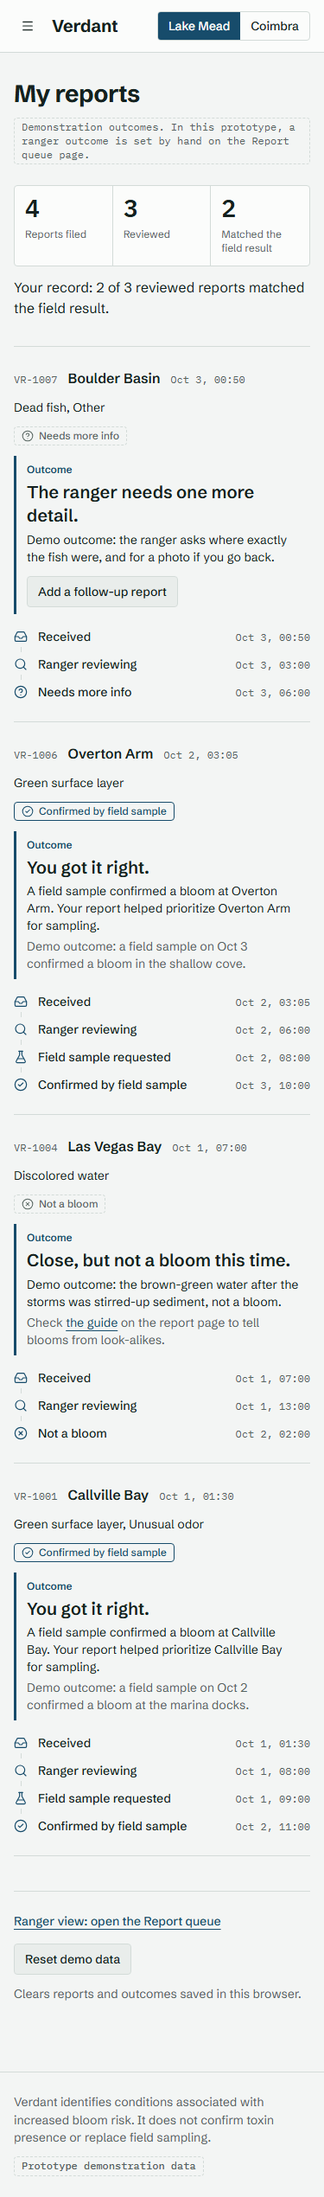
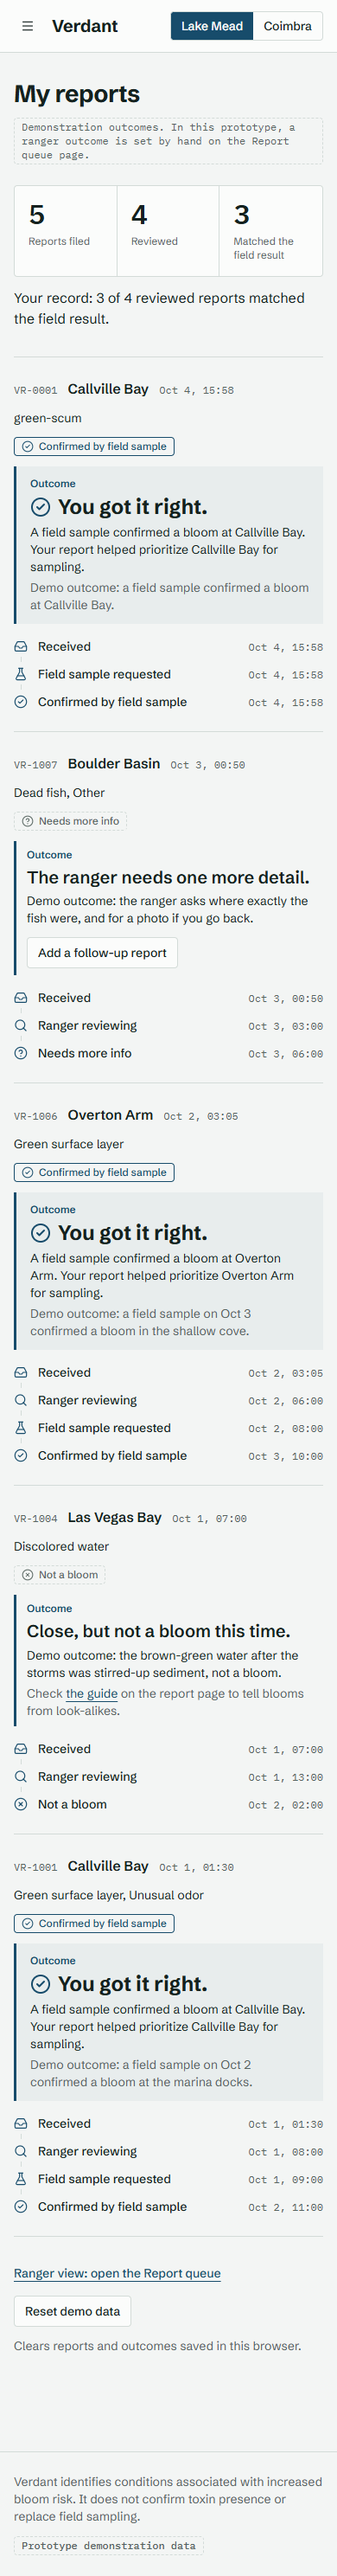
Split ranger buttons into step and outcome groups, emphasize My reports payoff, drop empty city locators

Changed region(s): [[0.0293, 0.0, 0.968, 0.9953], [0.88, 0.2488, 0.968, 0.311], [0.9093, 0.6843, 0.968, 0.7154]]

diff --git a/src/pages/RangerQueue.tsx b/src/pages/RangerQueue.tsx
@@ -18,7 +18,7 @@ import { cn } from "@/lib/utils";
 import type { CitizenReport, ReportStatus, SiteResult } from "@/types";
 
 const DATA_LABEL =
-  "inline-block max-w-full rounded-sm border border-dashed px-2 py-0.5 font-mono text-xs text-muted-foreground";
+  "w-fit max-w-full rounded-sm border border-dashed px-2 py-0.5 font-mono text-xs text-muted-foreground";
 
 const OUTCOME_NOTE: Record<
   "confirmed" | "not-bloom" | "more-info",
@@ -105,7 +105,12 @@ export default function RangerQueue() {
       <li key={r.id} className="border-b last:border-b-0">
         <Flash fresh={fresh}>
           <article
-            className="grid gap-3 py-4 md:px-2 lg:grid-cols-[minmax(0,1fr)_minmax(0,30rem)] lg:gap-x-10"
+            className={cn(
+              "grid gap-3 py-4 md:px-2",
+              withActions
+                ? "lg:grid-cols-[minmax(0,1fr)_minmax(0,37rem)] lg:gap-x-10"
+                : "max-w-[72ch]",
+            )}
             aria-label={`Report ${reportCode(r)}`}
           >
             <div className="flex min-w-0 flex-col gap-2">
@@ -142,57 +147,71 @@ export default function RangerQueue() {
                   {r.rangerNote}
                 </p>
               )}
-            </div>
-            <div className="flex min-w-0 flex-col gap-2 lg:justify-center">
-              {withActions && (
-                <div className="flex flex-wrap gap-2">
-                  {st === "received" && (
-                    <Button
-                      variant="outline"
-                      className="h-9 px-3"
-                      onClick={() => act(r, "reviewing")}
-                    >
-                      Start review
-                    </Button>
-                  )}
-                  {(st === "received" || st === "reviewing") && (
-                    <Button
-                      variant="outline"
-                      className="h-9 px-3"
-                      onClick={() => act(r, "sample-requested")}
-                    >
-                      Request field sample
-                    </Button>
-                  )}
-                  <Button
-                    variant="outline"
-                    className="h-9 px-3"
-                    onClick={() => act(r, "confirmed")}
-                  >
-                    Confirmed by field sample
-                  </Button>
-                  <Button
-                    variant="outline"
-                    className="h-9 px-3"
-                    onClick={() => act(r, "not-bloom")}
-                  >
-                    Not a bloom
-                  </Button>
-                  <Button
-                    variant="outline"
-                    className="h-9 px-3"
-                    onClick={() => act(r, "more-info")}
-                  >
-                    Needs more info
-                  </Button>
-                </div>
+              {!withActions && (
+                <p className="text-xs text-muted-foreground">
+                  {r.dataTag === "user-submitted"
+                    ? `Score weight: ${EVIDENCE_WEIGHT[st]} points of citizen evidence.`
+                    : "Demo report: its evidence is already in the prototype values."}
+                </p>
               )}
-              <p className="text-xs text-muted-foreground">
-                {r.dataTag === "user-submitted"
-                  ? `Score weight: ${EVIDENCE_WEIGHT[st]} points of citizen evidence.`
-                  : "Demo report: its evidence is already in the prototype values."}
-              </p>
             </div>
+            {withActions && (
+              <div className="flex min-w-0 flex-col gap-2 lg:justify-center">
+                <div className="flex flex-col items-start gap-3">
+                  <div className="flex flex-wrap gap-2 empty:hidden">
+                    {st === "received" && (
+                      <Button
+                        variant="outline"
+                        className="h-9 px-3"
+                        onClick={() => act(r, "reviewing")}
+                      >
+                        Start review
+                      </Button>
+                    )}
+                    {(st === "received" || st === "reviewing") && (
+                      <Button
+                        variant="outline"
+                        className="h-9 px-3"
+                        onClick={() => act(r, "sample-requested")}
+                      >
+                        Request field sample
+                      </Button>
+                    )}
+                  </div>
+                  <div className="flex flex-wrap items-center gap-2">
+                    <span className="text-xs text-muted-foreground">
+                      Outcome
+                    </span>
+                    <Button
+                      variant="outline"
+                      className="h-9 border-primary px-3 text-primary"
+                      onClick={() => act(r, "confirmed")}
+                    >
+                      Confirmed by field sample
+                    </Button>
+                    <Button
+                      variant="outline"
+                      className="h-9 px-3"
+                      onClick={() => act(r, "not-bloom")}
+                    >
+                      Not a bloom
+                    </Button>
+                    <Button
+                      variant="outline"
+                      className="h-9 px-3"
+                      onClick={() => act(r, "more-info")}
+                    >
+                      Needs more info
+                    </Button>
+                  </div>
+                </div>
+                <p className="text-xs text-muted-foreground">
+                  {r.dataTag === "user-submitted"
+                    ? `Score weight: ${EVIDENCE_WEIGHT[st]} points of citizen evidence.`
+                    : "Demo report: its evidence is already in the prototype values."}
+                </p>
+              </div>
+            )}
           </article>
         </Flash>
       </li>
@@ -200,7 +219,7 @@ export default function RangerQueue() {
   }
 
   return (
-    <div className="flex flex-col gap-8 py-8 md:py-12">
+    <div className="flex flex-col gap-8">
       <header className="flex flex-col gap-3">
         <h1 className="text-[28px] font-bold leading-[1.1] tracking-[-0.02em] md:text-[40px]">
           Report queue

diff --git a/src/pages/MyReports.tsx b/src/pages/MyReports.tsx
@@ -1,3 +1,4 @@
+import { CircleCheck } from "lucide-react";
 import { Link } from "react-router";
 import { Button, buttonVariants } from "@/components/ui/button";
 import { ReportStatusTag } from "@/components/ReportStatusTag";
@@ -13,6 +14,7 @@ import { useRegion } from "@/state/RegionContext";
 import type { CitizenReport } from "@/types";
 
 const headline = "text-xl font-semibold leading-snug";
+const payoff = "text-2xl font-bold leading-tight";
 
 function Outcome({
   report,
@@ -44,7 +46,14 @@ function Outcome({
     case "confirmed":
       body = (
         <>
-          <p className={headline}>You got it right.</p>
+          <p className={cn(payoff, "flex items-center gap-2")}>
+            <CircleCheck
+              className="size-6 shrink-0 text-primary"
+              strokeWidth={2}
+              aria-hidden
+            />
+            You got it right.
+          </p>
           <p className="mt-1 text-sm">{`A field sample confirmed a bloom at ${siteName}. ${prioritized}`}</p>
           {note && <p className="mt-1 text-sm text-muted-foreground">{note}</p>}
         </>
@@ -87,7 +96,12 @@ function Outcome({
       break;
   }
   return (
-    <div className="border-l-[3px] border-primary px-3 py-2">
+    <div
+      className={cn(
+        "border-l-[3px] border-primary px-3 py-2",
+        status === "confirmed" && "bg-primary/5 px-4 py-3",
+      )}
+    >
       <p className="mb-1 text-xs font-semibold text-primary">{label}</p>
       {body}
     </div>
@@ -106,7 +120,7 @@ export function MyReports() {
   ];
 
   return (
-    <div className="py-8 md:py-12">
+    <div>
       <h1 className="text-[28px] font-bold leading-[1.1] tracking-[-0.02em] md:text-[40px]">
         My reports
       </h1>
@@ -115,16 +129,16 @@ export function MyReports() {
         hand on the Report queue page.
       </p>
 
-      <dl className="mt-6 grid max-w-[560px] grid-cols-3 divide-x divide-border rounded-sm border border-border bg-card">
+      <dl className="mt-6 grid grid-cols-3 divide-x divide-border rounded-sm border border-border bg-card">
         {cells.map(([label, value]) => (
           <div
             key={label}
-            className="flex flex-col-reverse justify-end gap-2 p-3 md:p-4"
+            className="flex flex-col-reverse justify-end gap-2 p-4 md:p-6"
           >
             <dt className="text-xs text-muted-foreground md:text-sm">
               {label}
             </dt>
-            <dd className="font-mono text-[28px] font-semibold leading-none tabular-nums">
+            <dd className="font-mono text-[32px] font-semibold leading-none tabular-nums md:text-[40px]">
               {value}
             </dd>
           </div>
@@ -133,7 +147,7 @@ export function MyReports() {
       <p className="mt-3 text-base">Your record: {recordLine(rec)}</p>
 
       {mine.length === 0 ? (
-        <div className="mt-8 max-w-[960px] border-t border-border pt-6">
+        <div className="mt-8 border-t border-border pt-6">
           <p className="text-base">
             You have not filed a report in {config.name} yet.
           </p>
@@ -142,15 +156,15 @@ export function MyReports() {
           </Link>
         </div>
       ) : (
-        <ul className="mt-8 max-w-[960px] list-none border-t border-border p-0">
+        <ul className="mt-8 list-none border-t border-border p-0">
           {mine.map((r) => {
             const name = siteName(r.siteId);
             return (
               <li
                 key={r.id}
-                className="grid gap-4 border-b border-border py-6 md:grid-cols-[minmax(0,1fr)_320px] md:gap-12"
+                className="grid gap-4 border-b border-border py-6 md:grid-cols-12 md:gap-12"
               >
-                <div className="space-y-3">
+                <div className="space-y-3 md:col-span-8">
                   <div className="flex flex-wrap items-baseline gap-x-3 gap-y-1">
                     <span className="font-mono text-xs text-muted-foreground">
                       {reportCode(r)}
@@ -169,14 +183,16 @@ export function MyReports() {
                   <ReportStatusTag status={r.status ?? "received"} />
                   <Outcome report={r} siteName={name} />
                 </div>
-                <ReportTimeline report={r} />
+                <div className="md:col-span-4">
+                  <ReportTimeline report={r} />
+                </div>
               </li>
             );
           })}
         </ul>
       )}
 
-      <div className="mt-6 flex max-w-[960px] flex-col items-start gap-4 pt-2">
+      <div className="mt-6 flex flex-col items-start gap-4 pt-2">
         <Link
           to="/rangers"
           className="text-sm font-medium text-primary underline underline-offset-4"

diff --git a/src/components/CityCard.tsx b/src/components/CityCard.tsx
@@ -9,29 +9,11 @@ export const dataStatusLabel: Record<SiteConfig["dataStatus"], string> = {
   "config-only": "Config only: ready for data",
 };
 
-const LON = [-12, 18];
-const LAT = [38, 62];
-
-/** Static locator: a hairline frame with one ink dot at the city's position over western Europe. */
-function Locator({ center }: { center: [number, number] }) {
-  const [lat, lon] = center;
-  const x = 4 + ((lon - LON[0]) / (LON[1] - LON[0])) * 112;
-  const y = 4 + (1 - (lat - LAT[0]) / (LAT[1] - LAT[0])) * 56;
-  return (
-    <svg viewBox="0 0 120 64" className="h-16 w-[120px] shrink-0 rounded-sm border border-border bg-card" role="img" aria-label={`Location ${lat.toFixed(2)} north, ${lon.toFixed(2)} east`}>
-      <line x1="0" x2="120" y1={y} y2={y} stroke="var(--border)" strokeWidth="1" />
-      <line y1="0" y2="64" x1={x} x2={x} stroke="var(--border)" strokeWidth="1" />
-      <circle cx={x} cy={y} r="3.5" fill="var(--foreground)" />
-    </svg>
-  );
-}
-
 export default function CityCard({ city, action }: { city: SiteConfig; action?: ReactNode }) {
   const [lat, lon] = city.center;
   const pathways = [...new Set(city.pathways.map((p) => PATHWAYS[p].label))];
   return (
     <li className="flex flex-col gap-4 border-b border-border p-4 last:border-b-0 md:flex-row md:items-center md:gap-6 md:p-6">
-      <Locator center={city.center} />
       <div className="flex min-w-0 flex-1 flex-col gap-2">
         <div className="flex flex-wrap items-baseline gap-x-3 gap-y-1">
           <h3 className="text-xl font-semibold leading-tight">{city.name}</h3>

diff --git a/src/pages/Methodology.tsx b/src/pages/Methodology.tsx
@@ -94,7 +94,7 @@ function Equation({ id }: { id: PathwayId }) {
 
 export default function Methodology() {
   return (
-    <div className="w-full py-8 md:py-12 lg:grid lg:grid-cols-[220px_minmax(0,1fr)] lg:gap-12">
+    <div className="w-full lg:grid lg:grid-cols-[220px_minmax(0,1fr)] lg:gap-12">
       <nav aria-label="On this page" className="hidden lg:block">
         <ul className="sticky top-20 flex flex-col gap-2 border-l border-border text-sm font-medium">
           {SECTIONS.map(([id, label]) => (

diff --git a/src/pages/OahCities.tsx b/src/pages/OahCities.tsx
@@ -22,7 +22,7 @@ export default function OahCities() {
   };
 
   return (
-    <div className="flex flex-col gap-8 py-8 md:gap-12 md:py-12">
+    <div className="flex flex-col gap-8 md:gap-12">
       <header className="flex flex-col gap-4">
         <h1 className="text-[28px] font-bold leading-[1.1] tracking-[-0.02em] md:text-[40px]">Verdant for OneAquaHealth cities</h1>
         <p className="max-w-[68ch] text-base leading-[1.55]">
